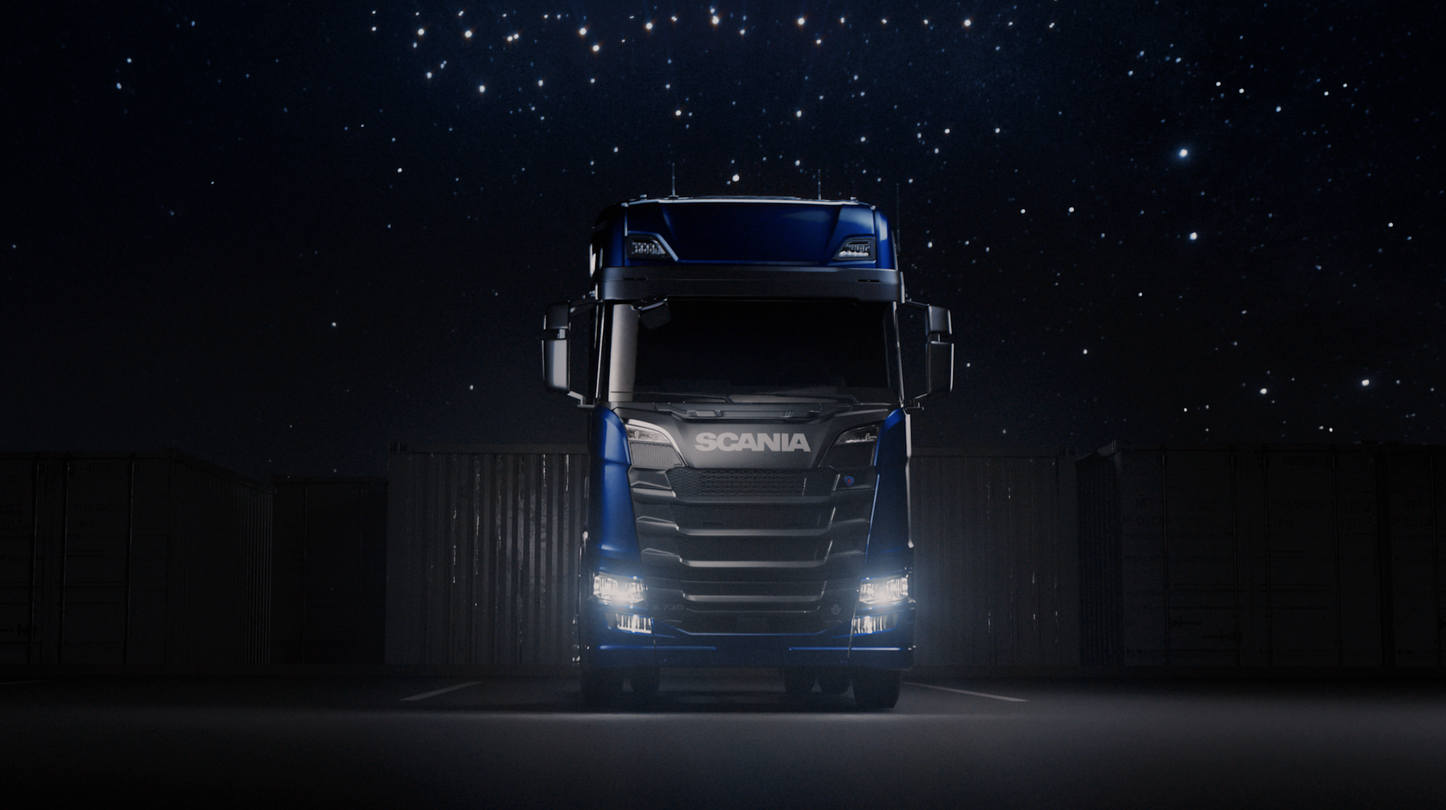
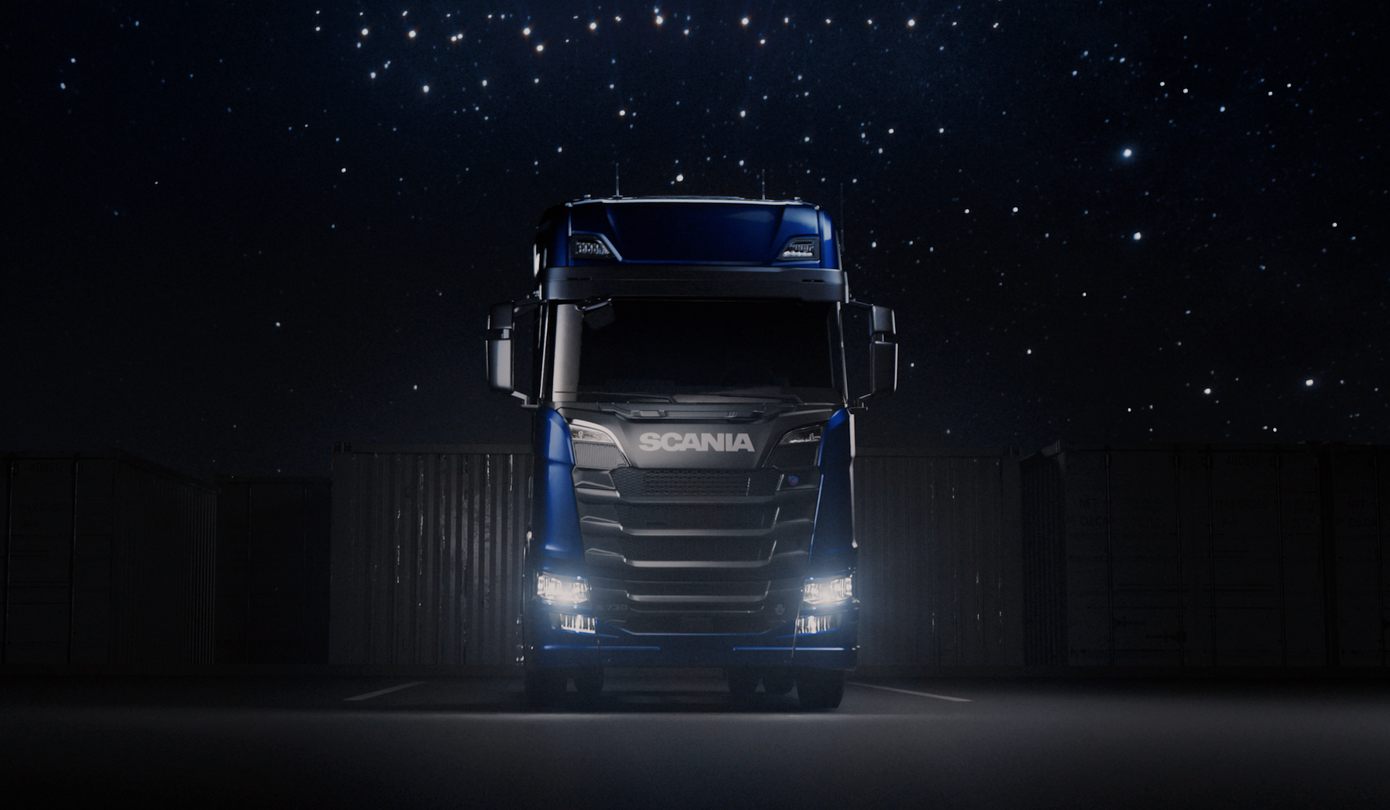
Mobile: titles shown and no hover on the home index; square work cards; thoughts reveal on scroll. Centre the Scania truck. Collab pages link to thirdkindcreative.com

diff --git a/components/sheet/ThoughtsIndexSheet.tsx b/components/sheet/ThoughtsIndexSheet.tsx
@@ -1,11 +1,14 @@
 'use client';
 
+import { motion, useReducedMotion } from 'motion/react';
 import Image from 'next/image';
 
 import { AppLink, useFramed } from '@/components/mobile/MobileChrome';
 import { IndexHeading } from '@/components/sheet/IndexHeading';
 import { Sheet } from '@/components/sheet/Sheet';
+import { useMobileSpotlight } from '@/lib/chrome/useMobileSpotlight';
 import { isUnoptimizedAsset } from '@/lib/content/mediaSrc';
+import { MOTION } from '@/lib/motion/tokens';
 import { EDITORIAL_LINE } from '@/lib/type/display';
 import type { Article } from '@/types/content';
 
@@ -14,15 +17,58 @@ const CARD_ASPECT = '4 / 5';
 
 /**
  * A plain black card: square corners, the title held top left and the tags
- * bottom right, both always on show. The still fades up behind them on hover.
+ * bottom right. On desktop the tags are always on show and the still fades up
+ * behind them on hover. On a phone the card being read, as the work index
+ * picks it, brings up its still and then its tags one by one.
  */
-function ArticleCard({ article }: { article: Article }) {
+function ArticleCard({
+  article,
+  mobile,
+  spotlighted,
+  index,
+  setNode,
+}: {
+  article: Article;
+  mobile: boolean;
+  spotlighted: boolean;
+  index: number;
+  setNode: (index: number, node: HTMLElement | null) => void;
+}) {
+  const reduced = useReducedMotion() ?? false;
   const tags = (article.tags ?? []).filter((tag) => tag.trim().length > 0);
+  // Desktop keeps its tags in view, so only the phone runs them in and out.
+  const active = mobile ? spotlighted : true;
+
+  const group = {
+    off: { transition: { staggerChildren: 0 } },
+    on: {
+      transition: {
+        delayChildren: reduced ? 0 : 0.15,
+        staggerChildren: reduced ? 0 : 0.07,
+      },
+    },
+  };
+  const tag = {
+    off: {
+      opacity: 0,
+      y: reduced ? 0 : 6,
+      transition: { duration: MOTION.reduced },
+    },
+    on: {
+      opacity: 1,
+      y: 0,
+      transition: {
+        duration: reduced ? MOTION.reduced : 0.45,
+        ease: MOTION.easeOut,
+      },
+    },
+  };
 
   return (
     <AppLink
       href={`/thoughts/${article.slug.current}`}
       className="group block w-full"
+      ref={(node) => setNode(index, node)}
     >
       <span
         className="relative block w-full overflow-hidden bg-black text-white"
@@ -30,7 +76,13 @@ function ArticleCard({ article }: { article: Article }) {
       >
         <span
           aria-hidden
-          className="absolute inset-0 opacity-0 transition-opacity duration-500 ease-[cubic-bezier(0.22,1,0.36,1)] group-hover:opacity-100 group-focus-visible:opacity-100"
+          className={`absolute inset-0 transition-opacity duration-500 ease-[cubic-bezier(0.22,1,0.36,1)] ${
+            mobile
+              ? spotlighted
+                ? 'opacity-100'
+                : 'opacity-0'
+              : 'opacity-0 group-hover:opacity-100 group-focus-visible:opacity-100'
+          }`}
         >
           <Image
             src={article.coverImage.src}
@@ -51,16 +103,22 @@ function ArticleCard({ article }: { article: Article }) {
           {article.title}
         </span>
         {tags.length ? (
-          <span className="absolute right-0 bottom-0 z-10 flex max-w-full flex-wrap justify-end gap-1.5 p-[clamp(1rem,2cqi,1.75rem)]">
+          <motion.span
+            variants={group}
+            initial={false}
+            animate={active ? 'on' : 'off'}
+            className="absolute right-0 bottom-0 z-10 flex max-w-full flex-wrap justify-end gap-1.5 p-[clamp(1rem,2cqi,1.75rem)]"
+          >
             {tags.map((name) => (
-              <span
+              <motion.span
                 key={name}
+                variants={tag}
                 className="rounded-full border-2 border-white/70 px-3 py-1 text-[0.78rem] font-medium leading-none"
               >
                 {name}
-              </span>
+              </motion.span>
             ))}
-          </span>
+          </motion.span>
         ) : null}
       </span>
     </AppLink>
@@ -69,6 +127,7 @@ function ArticleCard({ article }: { article: Article }) {
 
 export function ThoughtsIndexSheet({ articles }: { articles: Article[] }) {
   const framed = useFramed();
+  const { mobile, activeIndex, setNode } = useMobileSpotlight(articles.length);
 
   return (
     <Sheet title="Thoughts" tone="editorial">
@@ -84,8 +143,15 @@ export function ThoughtsIndexSheet({ articles }: { articles: Article[] }) {
         </div>
 
         <div className="grid grid-cols-1 gap-[1.6cqi] px-[3cqi] pt-[3cqi] pb-[6cqi] max-md:gap-5 max-md:px-12 @md:grid-cols-4">
-          {articles.map((article) => (
-            <ArticleCard key={article._id} article={article} />
+          {articles.map((article, index) => (
+            <ArticleCard
+              key={article._id}
+              article={article}
+              mobile={mobile}
+              spotlighted={activeIndex === index}
+              index={index}
+              setNode={setNode}
+            />
           ))}
         </div>
       </div>

diff --git a/components/canvas/IndexView.tsx b/components/canvas/IndexView.tsx
@@ -470,10 +470,9 @@ export function IndexView({
                     data-explore
                     className={`relative block w-full ${slot.aspect}`}
                   >
-                    {/* Radius lives on the inner frame so the wipe's clip-path
-                        does not square the corners off again. */}
                     <span
-                      className={`absolute inset-0 overflow-hidden bg-paper transition-[border-radius] duration-500 ease-[cubic-bezier(0.22,1,0.36,1)] rounded-none ${phone ? 'group-hover:rounded-[30px] group-focus-visible:rounded-[30px]' : ''}`}
+                      // Square at all times, on the phone as on desktop.
+                      className="absolute inset-0 overflow-hidden rounded-none bg-paper"
                     >
                       {node.swatch ? (
                         <span
@@ -493,14 +492,14 @@ export function IndexView({
                             quality={95}
                             unoptimized={isUnoptimizedAsset(node.thumbnail)}
                             style={coverFocusStyle(node.thumbnail)}
-                            className="object-cover transition-transform duration-[600ms] ease-[cubic-bezier(0.22,1,0.36,1)] group-hover:scale-[1.045]"
+                            className={`object-cover transition-transform duration-[600ms] ease-[cubic-bezier(0.22,1,0.36,1)] ${phone ? '' : 'md:group-hover:scale-[1.045]'}`}
                           />
                         </span>
                       )}
                       <span className="pointer-events-none absolute inset-x-0 bottom-0 flex flex-col items-start p-[clamp(1rem,2cqi,1.75rem)] text-white">
                         <span className="block overflow-hidden pt-[0.12em] pb-[0.26em]">
                           <span
-                            className={`font-sans block leading-snug transition-transform duration-[550ms] ease-[cubic-bezier(0.22,1,0.36,1)] ${phone ? 'translate-y-0' : 'translate-y-[110%] group-hover:translate-y-0 group-focus-visible:translate-y-0'}`}
+                            className={`font-sans block leading-snug transition-transform duration-[550ms] ease-[cubic-bezier(0.22,1,0.36,1)] ${phone ? 'translate-y-0' : 'translate-y-0 md:translate-y-[110%] md:group-hover:translate-y-0 md:group-focus-visible:translate-y-0'}`}
                             style={{ fontSize: EDITORIAL_LINE }}
                           >
                             {title}

diff --git a/lib/fixtures/content.ts b/lib/fixtures/content.ts
@@ -153,7 +153,7 @@ const LOCAL_STILL: Record<
   '/work/noirgaze/thumb.jpg': { width: 1405, height: 952 },
   '/work/noirgaze/header.jpg': { width: 1452, height: 1602 },
   '/work/oldboy-brand/thumb.jpg': { width: 3654, height: 2664 },
-  '/work/scania/thumb.jpg': { width: 2242, height: 1256 },
+  '/work/scania/thumb.jpg': { width: 2155, height: 1256 },
   '/work/scytales-2/thumb.jpg': { width: 4816, height: 2688 },
   '/work/scytales-2/header.jpg': { width: 4816, height: 2688 },
   '/work/scytales/thumb.jpg': { width: 1446, height: 952 },
@@ -165,12 +165,8 @@ const LOCAL_STILL: Record<
   '/work/scytales-2/str-1.jpg': { width: 5504, height: 3072 },
   '/work/scytales-2/alc-3.jpg': { width: 5504, height: 3072 },
   '/work/scytales-2/sc-2.jpg': { width: 5504, height: 3072 },
-  // The truck stands a little right of the frame's middle.
-  '/work/scania/header.png': {
-    width: 2242,
-    height: 1256,
-    hotspot: { x: 0.519, y: 0.5 },
-  },
+  // Trimmed on the left so the truck sits on the frame's exact middle.
+  '/work/scania/header.png': { width: 2155, height: 1256 },
   '/work/up-hellas/header.png': { width: 2688, height: 1500 },
   '/work/up-hellas/poster.png': { width: 1736, height: 974 },
   '/work/up-hellas/still-1.png': { width: 1314, height: 1158 },

diff --git a/components/sheet/WorkIndexSheet.tsx b/components/sheet/WorkIndexSheet.tsx
@@ -82,8 +82,12 @@ function ProjectCard({
     off: { transition: { staggerChildren: 0 } },
     on: { transition: { staggerChildren: reduced ? 0 : 0.07 } },
   };
+  // On a phone the title is always in view; only the tags wait for the scroll.
   const line = {
-    off: { y: '110%', transition: { duration: MOTION.reduced } },
+    off: {
+      y: mobile ? '0%' : '110%',
+      transition: { duration: MOTION.reduced },
+    },
     on: {
       y: '0%',
       transition: {
@@ -119,10 +123,8 @@ function ProjectCard({
       onBlur={mobile ? undefined : () => setHover(false)}
     >
       <motion.span
-        className={`relative block w-full overflow-hidden bg-hairline transition-[border-radius] duration-500 ease-[cubic-bezier(0.22,1,0.36,1)] ${
-          // Square on desktop at all times; only the phone's spotlight rounds.
-          mobile && active ? 'rounded-[30px]' : 'rounded-none'
-        }`}
+        // Square at all times, on the phone as on desktop.
+        className="relative block w-full overflow-hidden bg-hairline"
         style={{ aspectRatio: aspect }}
         initial={false}
         animate={active ? 'on' : 'off'}

diff --git a/app/Collab/CompanyPage.tsx b/app/Collab/CompanyPage.tsx
@@ -139,6 +139,16 @@ export function CompanyPage({ company }: { company: Company }) {
           </ul>
         </section>
       ) : null}
+      <footer className="collab-section collab-footer">
+        <a
+          className="collab-copy"
+          href="https://thirdkindcreative.com"
+          target="_blank"
+          rel="noopener noreferrer"
+        >
+          thirdkindcreative.com
+        </a>
+      </footer>
     </SlideUp>
   );
 }

diff --git a/app/mindthehack/deck.ts b/app/mindthehack/deck.ts
@@ -410,7 +410,7 @@ export const chapters: Chapter[] = [
             title: 'Scania — Vehicle E-Wallet',
             poster: {
               src: '/work/scania/header.png',
-              w: 2242,
+              w: 2155,
               h: 1256,
               alt: 'Scania Vehicle E-Wallet',
             },

diff --git a/app/Collab/collab.css b/app/Collab/collab.css
@@ -456,3 +456,13 @@
   border-bottom: 2px solid #000;
   padding-block: 0.7em;
 }
+
+.collab-footer a {
+  color: inherit;
+  text-decoration: underline;
+  text-decoration-thickness: 0.06em;
+  text-underline-offset: 0.12em;
+}
+.collab-footer a:hover {
+  opacity: 0.6;
+}
